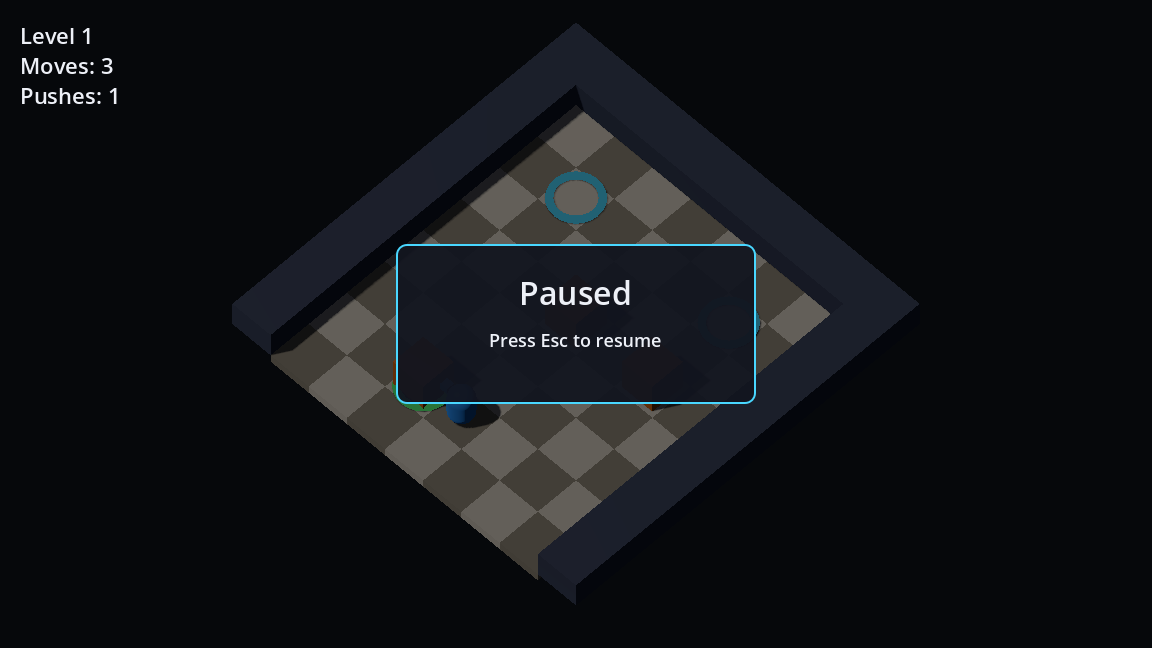
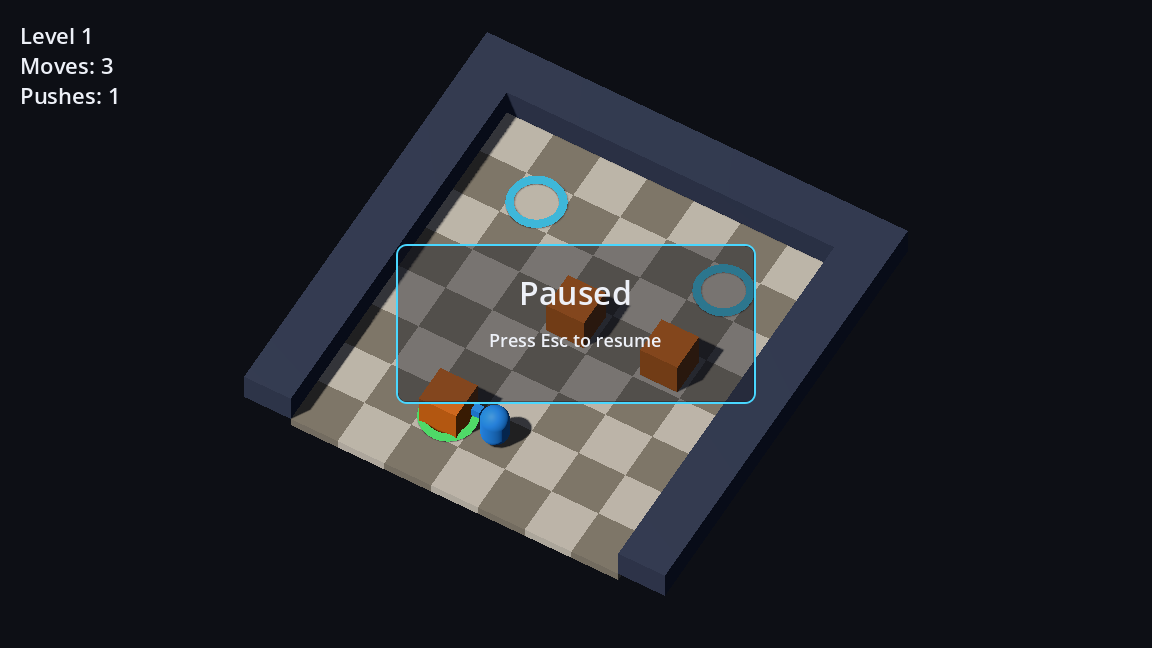
evidence: re-capture story-001/003/005 frames at the 30 degree yaw

Changed region(s): [[0.1875, 0.0309, 0.7812, 0.9259]]

diff --git a/production/qa/evidence/story-001/index.md b/production/qa/evidence/story-001/index.md
@@ -1,8 +1,8 @@
 # Evidence: story-001
 
-Run result: OBSERVED — the 1152x648 frame captured with --demo=pushed is the 55° pitch / 45° yaw isometric view: the board reads as a diamond with the two far slate walls visible and the near side cut open. The checkerboard is now clearly visible: adjacent light and dark floor cells have an obvious brightness difference instead of washing out to near-white. Exactly one crate is on the (6, 2) goal (green ring) and the other two goals (2, 2) and (3, 7) are empty (cyan rings), with the player at (6, 3). The demo occupancy and player cell are asserted by the headless demo test.
+Run result: OBSERVED — the 1152x648 frame captured with --demo=pushed is the 55° pitch / 30° yaw three-quarter view: the board reads as a diamond with the two far slate walls visible and the near side cut open. The checkerboard is clearly visible: adjacent light and dark floor cells have an obvious brightness difference instead of washing out to near-white. Exactly one crate is on the (6, 2) goal (green ring) and the other two goals (2, 2) and (3, 7) are empty (cyan rings), with the player at (6, 3). The HUD reads "Level 1 / Moves: 5 / Pushes: 2". The demo occupancy and player cell are asserted by the headless demo test.
 
-- `story-001-1.png` — `python scripts/studio.py capture --out production/qa/evidence/story-001/story-001-1.png -- --demo=pushed`: the isometric demo-pushed frame at the new floor palette; the checkerboard is clearly readable across the floor, the slate walls / orange crates / blue player / cyan and green goal rings stay distinct, and the crate on (6, 2) sits inside the green placed-goal ring.
-- `check.log` — `python scripts/studio.py check` output: exit 0, `[check] import OK`, and the changed `src/game.gd` parses.
-- `test.log` — `python scripts/studio.py test` output: exit 0, `PASS: 58 checks passed`; the demo test asserts exactly one crate on a goal, the other goals empty, and the player at (6, 3); the three `ERROR: level '<id>'` lines are the expected loader rejections.
-- `capture.log` — `python scripts/studio.py capture --out production/qa/evidence/story-001/story-001-1.png -- --demo=pushed` output: exit 0, a 1152x648 PNG of 41824 bytes, user arguments `--demo=pushed`.
+- `story-001-1.png` — `python scripts/studio.py capture --out production/qa/evidence/story-001/story-001-1.png -- --demo=pushed`: the demo-pushed frame at 30° yaw; the checkerboard is clearly readable across the floor, the slate walls / orange crates / blue player / cyan and green goal rings stay distinct, and the crate on (6, 2) sits inside the green placed-goal ring.
+- `check.log` — `python scripts/studio.py check` output: exit 0, `[check] import OK`, and the changed `src/game.gd` parses (`[check] ok res://src/game.gd`).
+- `test.log` — `python scripts/studio.py test` output: exit 0, `PASS: 273 checks passed`; the demo test asserts exactly one crate on a goal, the other goals empty, and the player at (6, 3); the five `ERROR: level '<id>'` lines are the expected loader rejections (`bad-count`, `bad-no-player`, `bad-overlap`, `bad-no-solution`, `bad-solution-char`), and the malformed-JSON error and campaign warnings come from the persistence tests.
+- `capture.log` — `python scripts/studio.py capture --out production/qa/evidence/story-001/story-001-1.png -- --demo=pushed` output: exit 0, a 1152x648 PNG of 46323 bytes, user arguments `--demo=pushed`.

diff --git a/production/qa/evidence/story-005/index.md b/production/qa/evidence/story-005/index.md
@@ -6,5 +6,5 @@ Run result: OBSERVED — both 1152x648 demo frames keep the board readable behin
 - `story-005-pause.png` — `python scripts/studio.py capture --out production/qa/evidence/story-005/story-005-pause.png -- --demo=pause`: the pause overlay over the partially solved board. The panel shows "Paused" and "Press Esc to resume"; the crate already on goal (3, 7) with its green ring, the other two crates on plain floor and the two empty cyan goal rings are all readable through the panel, and the HUD still reads "Level 1 / Moves: 3 / Pushes: 1".
 - `check.log` — `python scripts/studio.py check` output: exit 0, `[check] import OK`, `[check] ok` for each of the three changed scripts, `[check] parsed 3 changed script(s)`.
 - `test.log` — `python scripts/studio.py test` output: exit 0, `PASS: 273 checks passed`. It includes the new story-005 checks (results-card backdrop alpha, board brightness through the card, pause panel alpha, pause scrim alpha, paused-board brightness behind the panel, and the unchanged stats/hint values) plus the whole existing story-001 to story-004 suite; the `ERROR: level '<id>'` lines are the expected loader rejections.
-- `capture-win.log` — `python scripts/studio.py capture --out production/qa/evidence/story-005/story-005-win.png -- --demo=win` output: exit 0, a 1152x648 PNG of 62212 bytes, user arguments `--demo=win`.
-- `capture-pause.log` — `python scripts/studio.py capture --out production/qa/evidence/story-005/story-005-pause.png -- --demo=pause` output: exit 0, a 1152x648 PNG of 52444 bytes, user arguments `--demo=pause`.
+- `capture-win.log` — `python scripts/studio.py capture --out production/qa/evidence/story-005/story-005-win.png -- --demo=win` output: exit 0, a 1152x648 PNG of 61280 bytes, user arguments `--demo=win`.
+- `capture-pause.log` — `python scripts/studio.py capture --out production/qa/evidence/story-005/story-005-pause.png -- --demo=pause` output: exit 0, a 1152x648 PNG of 51913 bytes, user arguments `--demo=pause`.

diff --git a/production/qa/evidence/story-003/index.md b/production/qa/evidence/story-003/index.md
@@ -5,4 +5,4 @@ Run result: OBSERVED — the 1152x648 frame captured with --demo=pause shows the
 - `story-003-1.png` — `python scripts/studio.py capture --out production/qa/evidence/story-003/story-003-1.png -- --demo=pause`: the pause overlay over the partial solve; the HUD shows Level 1, Moves 3, Pushes 1; the crate on the goal at (3, 7) has a green ring and the other goals are still empty.
 - `check.log` — `python scripts/studio.py check` output: exit 0, `[check] import OK`, and the changed scripts parse.
 - `test.log` — `python scripts/studio.py test` output: exit 0, `PASS: 105 checks passed`; covers the one-slot buffer, its replacement and blocked buffered move, the mid-animation pause snap and resume, the HUD values, and the story-001/002 regressions; the three `ERROR: level '<id>'` lines are the expected loader rejections.
-- `capture.log` — `python scripts/studio.py capture --out production/qa/evidence/story-003/story-003-1.png -- --demo=pause` output: exit 0, a 1152x648 PNG of 46701 bytes, user arguments `--demo=pause`.
+- `capture.log` — `python scripts/studio.py capture --out production/qa/evidence/story-003/story-003-1.png -- --demo=pause` output: exit 0, a 1152x648 PNG of 51913 bytes, user arguments `--demo=pause`.
